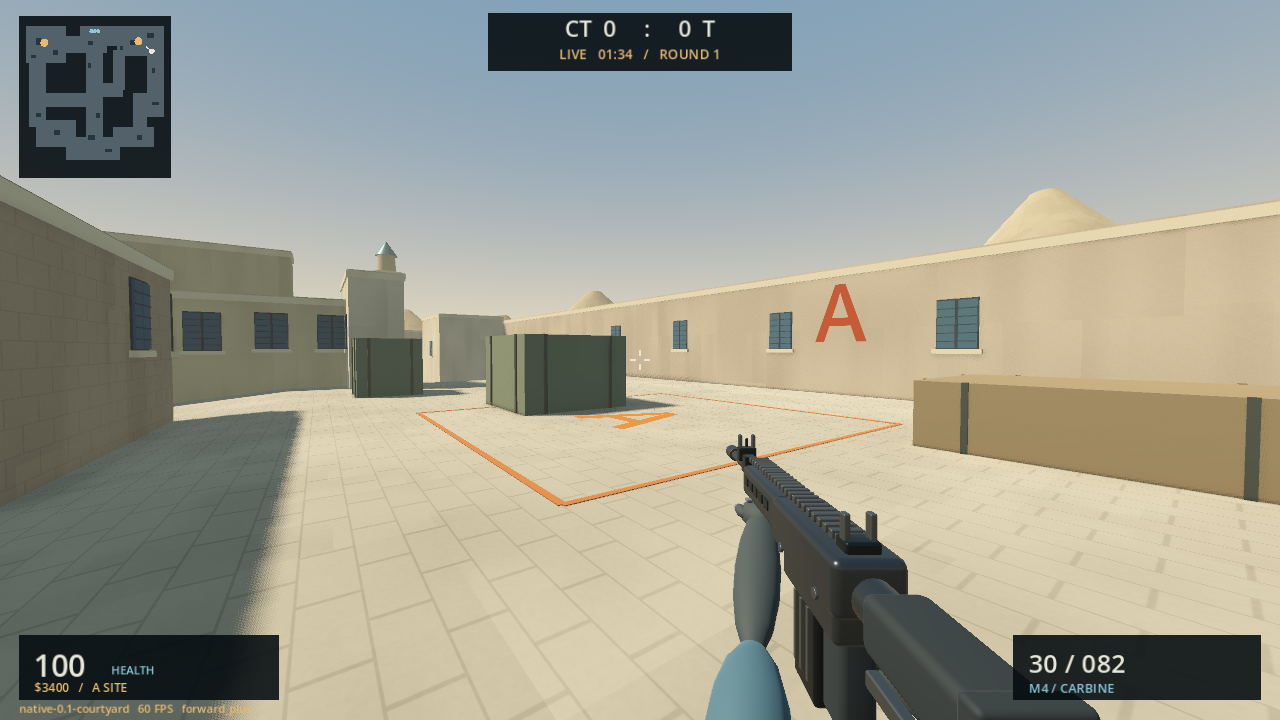
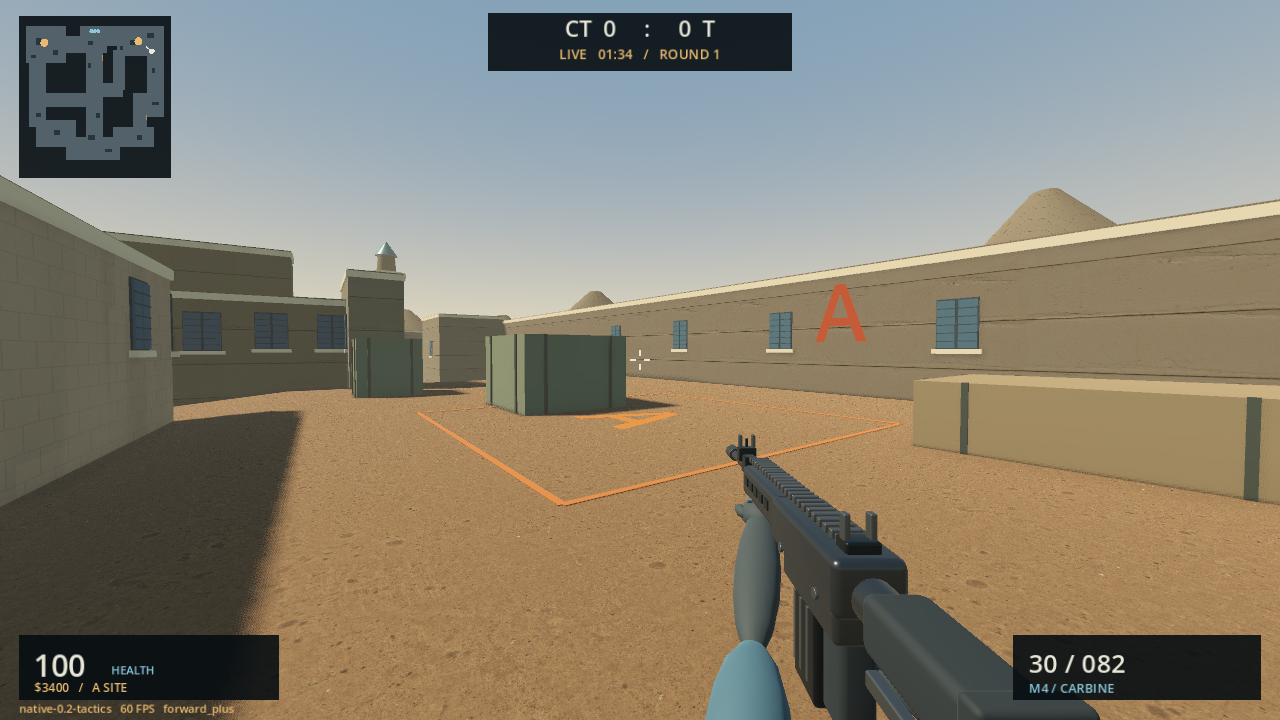
Refresh native README screenshots for version 0.2

diff --git a/native-godot/README.md b/native-godot/README.md
@@ -12,7 +12,7 @@ proprietary engine plugins, or commercial asset packs.
 ![Native A site, captured in Godot on Windows](docs/a-site.png)
 ![Roofed upper tunnels, captured in Godot on Windows](docs/tunnels.png)
 
-Actual native-renderer screenshots, with staged camera positions for map review.
+Actual native 0.2 renderer screenshots, with staged camera positions for map review.
 These are not concept art or a claimed continuous gameplay recording.
 
 ## Play locally
